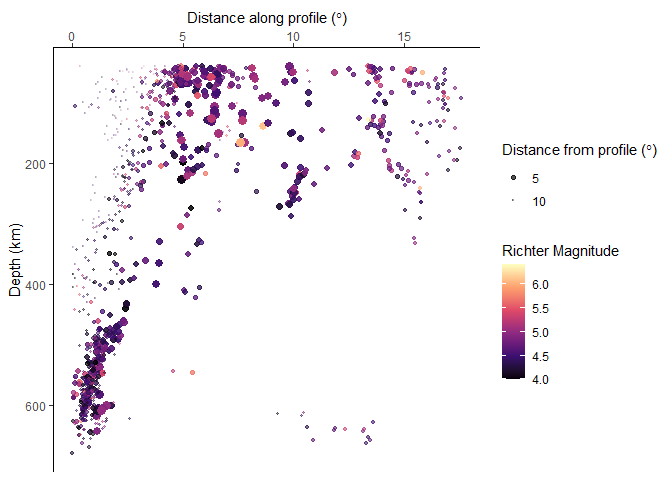
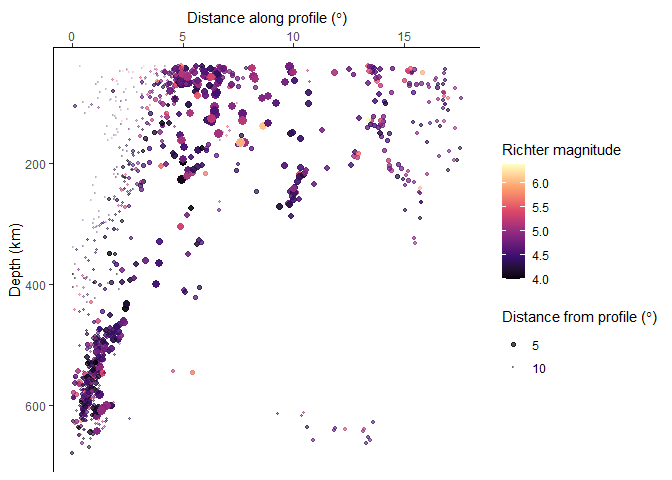
typos

Changed region(s): [[0.75, 0.2812, 0.9688, 0.8125]]

diff --git a/README.md b/README.md
@@ -70,7 +70,7 @@ Finally, create your profile plot:
 ``` r
 ggplot(quakes_profile, aes(X, depth, color = mag, size = abs(Y), alpha = abs(Y))) +
   geom_point() +
-  scale_color_viridis_c("Richter Magnitude", option = "A") +
+  scale_color_viridis_c("Richter magnitude", option = "A") +
   scale_size_continuous(bquote("Distance from profile (" * degree * ")"), range = c(3, .1)) +
   scale_alpha_continuous(bquote("Distance from profile (" * degree * ")"), range = c(1, .1)) +
   scale_y_reverse() +
